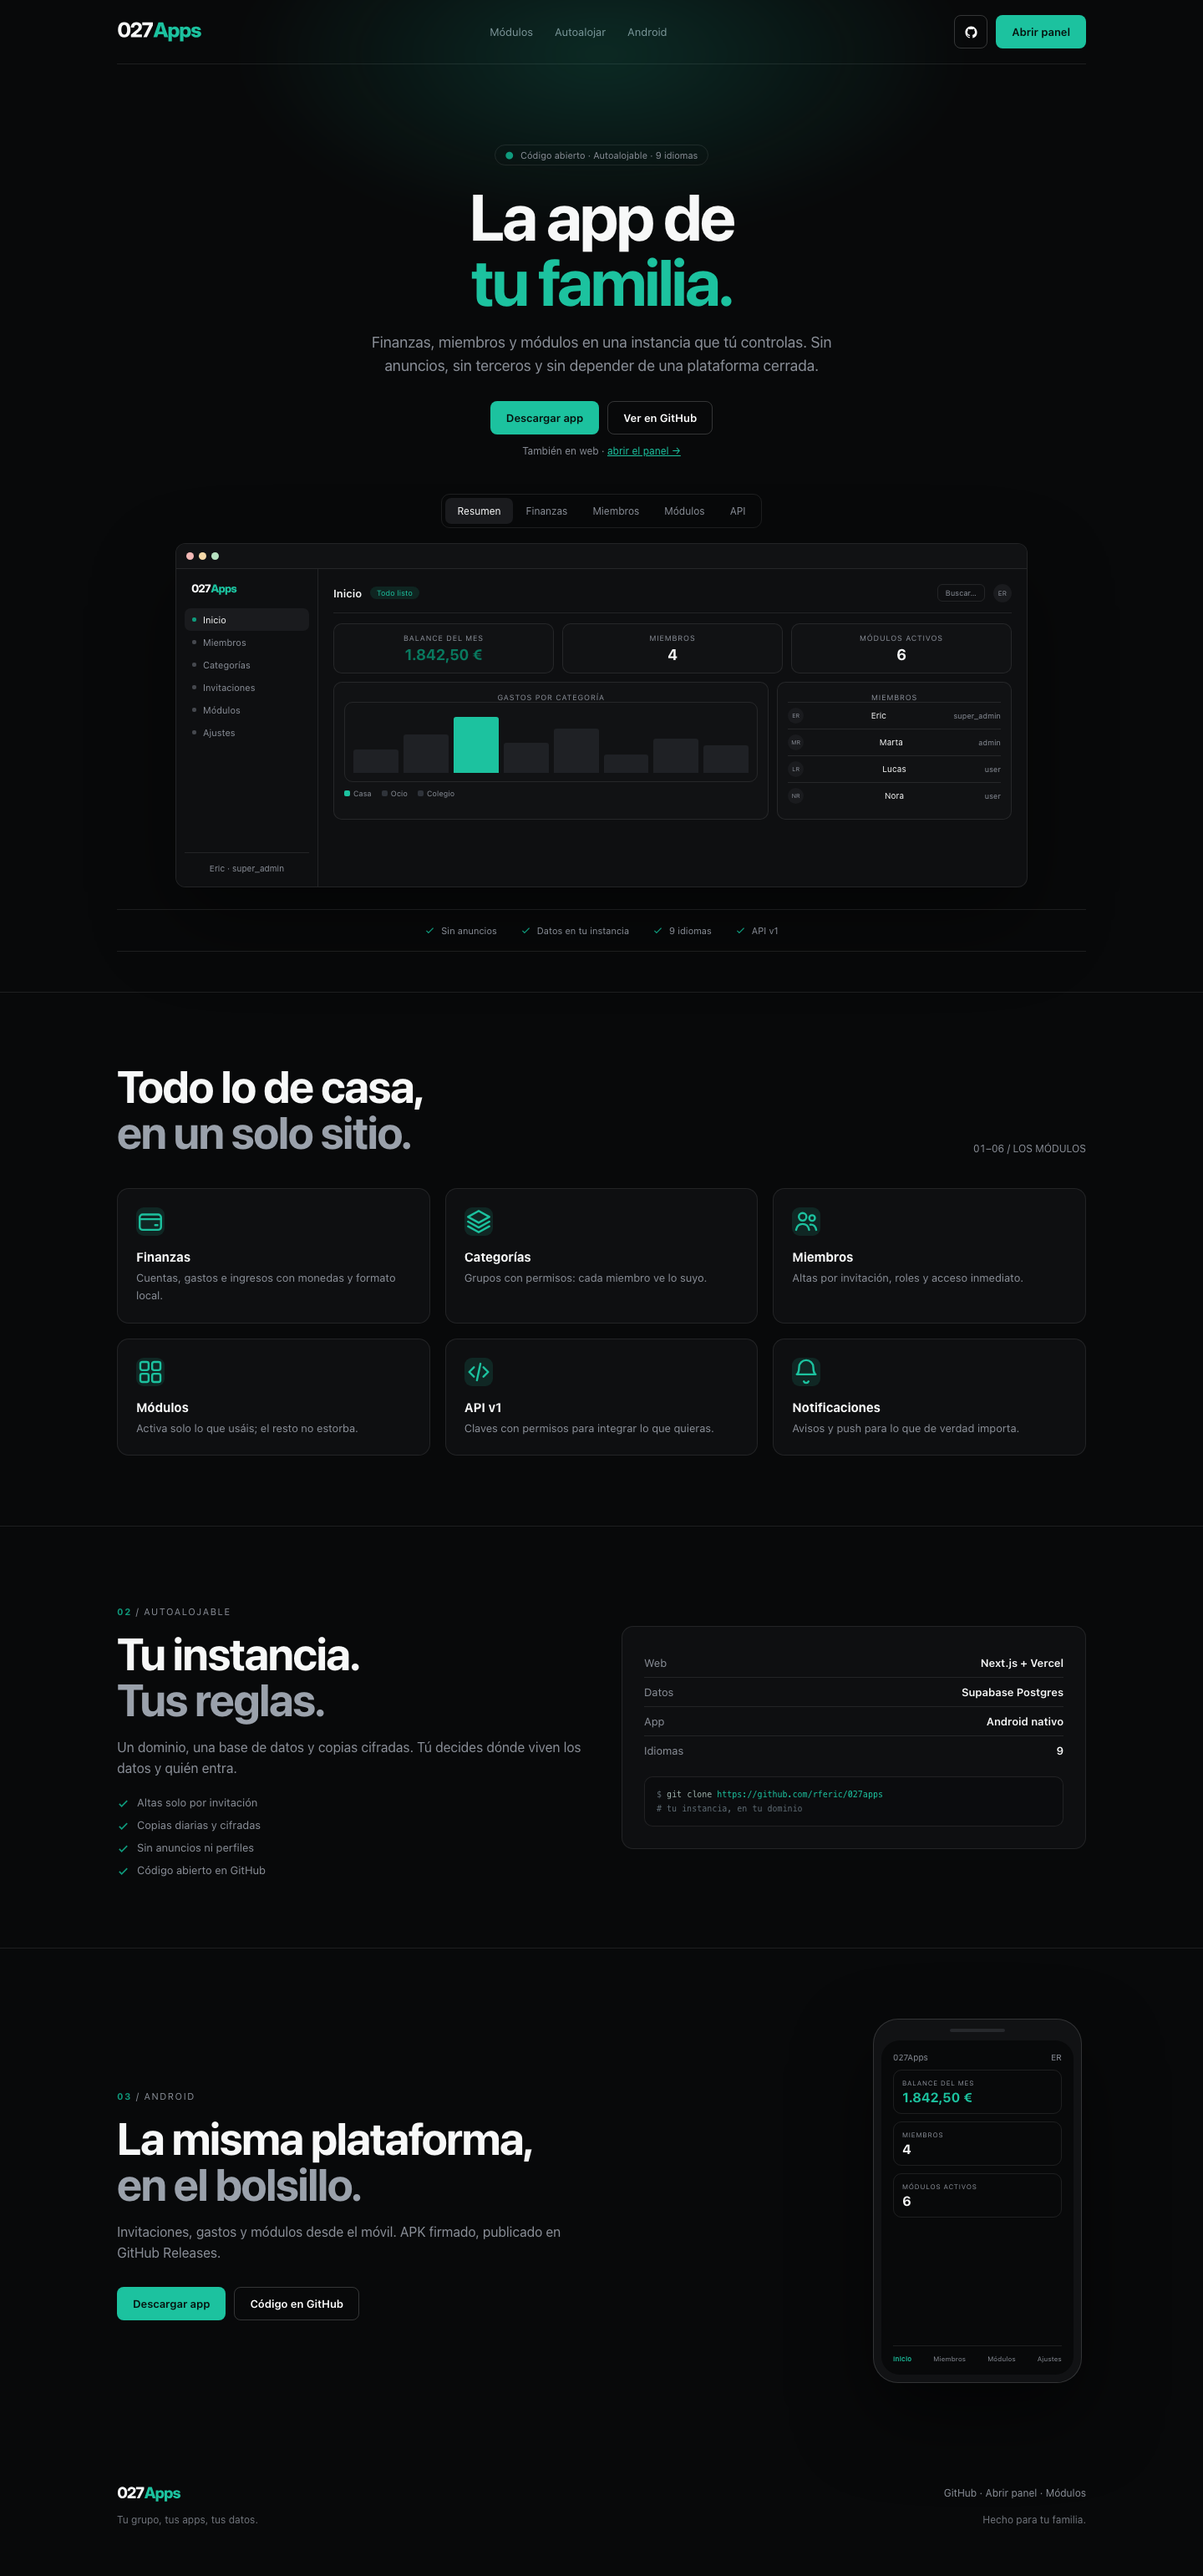
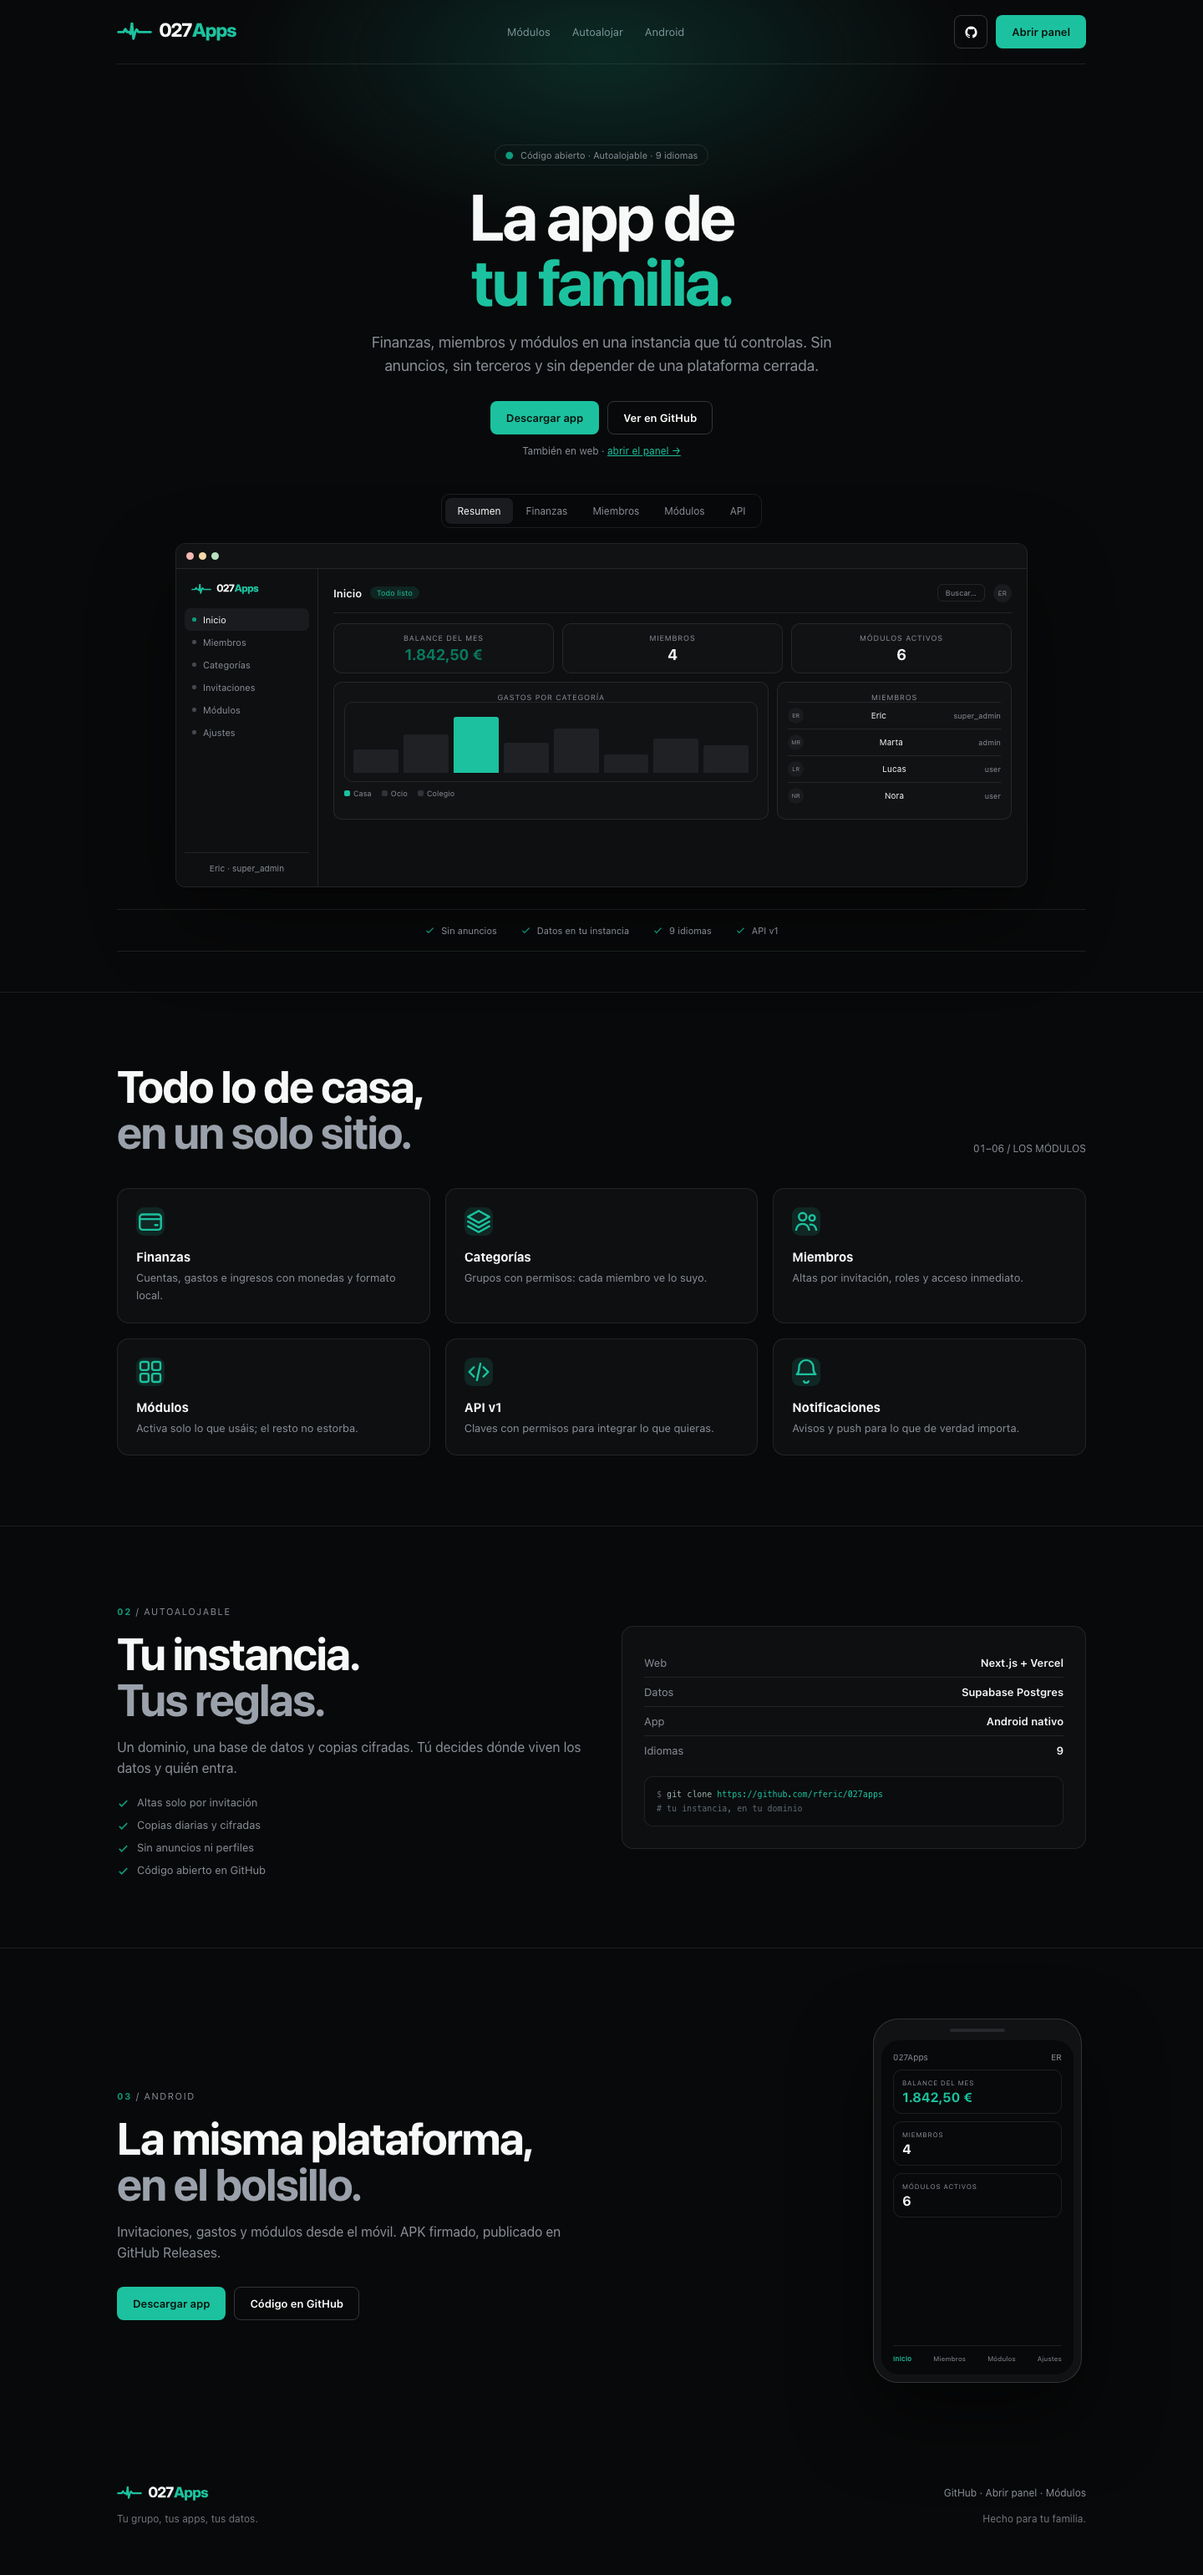
docs(landing): restore the heartbeat lockup in the dark mockup

diff --git a/docs/mockups/landing/v2.html b/docs/mockups/landing/v2.html
@@ -9,7 +9,10 @@
   <body class="dark v2">
     <div class="wrap">
       <nav class="nav">
-        <a class="brand" href="#"><img src="../../brand/assets/wordmark-bare-dark.svg" alt="027Apps" height="24" /></a>
+        <a class="brand lockup" href="#">
+          <svg class="pulse" viewBox="0 0 48 26" fill="none" stroke="currentColor" stroke-width="3.4" stroke-linecap="round" stroke-linejoin="round" aria-hidden="true"><polyline points="2,14 9,14 11.5,10 14,14 17,14 18.5,16.5 20.5,1.5 22.5,23 25,14 27,10.5 29.5,14 46,14" transform="translate(0,-1)"/></svg>
+          <img src="../../brand/assets/wordmark-bare-dark.svg" alt="027Apps" height="22" />
+        </a>
         <div class="links">
           <a href="#modulos">Módulos</a>
           <a href="#autoalojar">Autoalojar</a>
@@ -52,7 +55,10 @@
             <div class="bar"><i></i><i></i><i></i></div>
             <div class="screen">
               <aside class="side">
-                <div class="side-brand"><img src="../../brand/assets/wordmark-bare-dark.svg" alt="" /></div>
+                <div class="side-brand lockup">
+                  <svg class="pulse" viewBox="0 0 48 26" fill="none" stroke="currentColor" stroke-width="3.4" stroke-linecap="round" stroke-linejoin="round" aria-hidden="true"><polyline points="2,14 9,14 11.5,10 14,14 17,14 18.5,16.5 20.5,1.5 22.5,23 25,14 27,10.5 29.5,14 46,14" transform="translate(0,-1)"/></svg>
+                  <img src="../../brand/assets/wordmark-bare-dark.svg" alt="" height="12" />
+                </div>
                 <a class="nav-item on"><span class="bullet"></span>Inicio</a>
                 <a class="nav-item"><span class="bullet"></span>Miembros</a>
                 <a class="nav-item"><span class="bullet"></span>Categorías</a>
@@ -191,7 +197,10 @@
 
     <footer class="wrap footer">
       <div class="row">
-        <img src="../../brand/assets/wordmark-bare-dark.svg" alt="027Apps" height="18" />
+        <span class="lockup footer-brand">
+          <svg class="pulse" viewBox="0 0 48 26" fill="none" stroke="currentColor" stroke-width="3.4" stroke-linecap="round" stroke-linejoin="round" aria-hidden="true"><polyline points="2,14 9,14 11.5,10 14,14 17,14 18.5,16.5 20.5,1.5 22.5,23 25,14 27,10.5 29.5,14 46,14" transform="translate(0,-1)"/></svg>
+          <img src="../../brand/assets/wordmark-bare-dark.svg" alt="027Apps" height="18" />
+        </span>
         <span><a href="https://github.com/rferic/027apps">GitHub</a> · <a href="/login">Abrir panel</a> · <a href="#modulos">Módulos</a></span>
       </div>
       <div class="row" style="margin-top: 14px; opacity: .8">

diff --git a/docs/mockups/landing/landing.css b/docs/mockups/landing/landing.css
@@ -404,3 +404,14 @@ body.warm .accent-warm { color: #b45309; }
   .app2 .screen { grid-template-columns: 1fr; }
   .strip { gap: 10px 16px; }
 }
+
+/* Brand lockup: the heartbeat mark next to the bare wordmark. */
+.lockup { display: inline-flex; align-items: center; gap: 8px; color: #1cc29f; }
+.lockup .pulse { width: 42px; height: auto; flex: none; }
+.nav .brand.lockup img { height: 22px; }
+.side-brand.lockup { gap: 6px; }
+.side-brand.lockup .pulse { width: 24px; }
+.side-brand.lockup img { height: 12px; }
+.footer .lockup { gap: 7px; }
+.footer .lockup .pulse { width: 30px; }
+.footer .lockup img { height: 17px; }

diff --git a/docs/mockups/landing/README.md b/docs/mockups/landing/README.md
@@ -32,7 +32,8 @@ El copy es ilustrativo; en la implementación pasa por los **9 idiomas**.
 - Captura del panel realista (sidebar, topbar, KPIs, gráfico con la barra activa en teal y
   lista de miembros) en lugar del placeholder vacío.
 - Iconos de línea coherentes en los módulos; GitHub como único icono en la nav.
-- Wordmark *bare* en la nav (la tagline era ilegible a 24 px).
+- Lockup de marca en nav, sidebar y pie: latido + wordmark *bare* (la tagline era ilegible a
+  24 px).
 - Franja de garantías bajo la captura y bloque de stack + terminal en autoalojar.
 - Cierre de Android con maqueta de móvil.
 - Capturas de página completa en escritorio (1440) y móvil (390).
